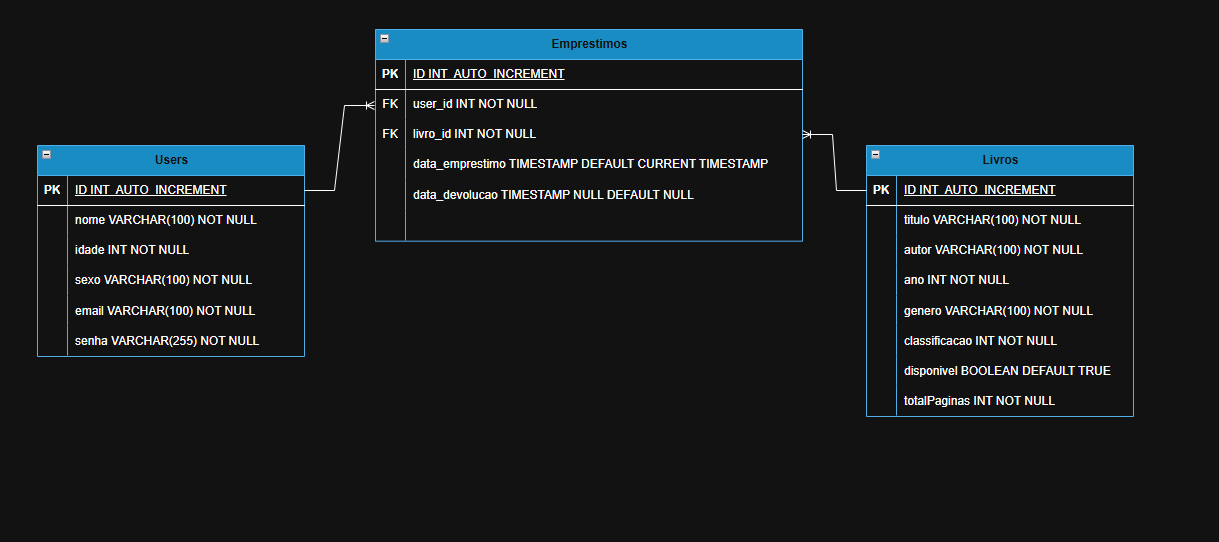
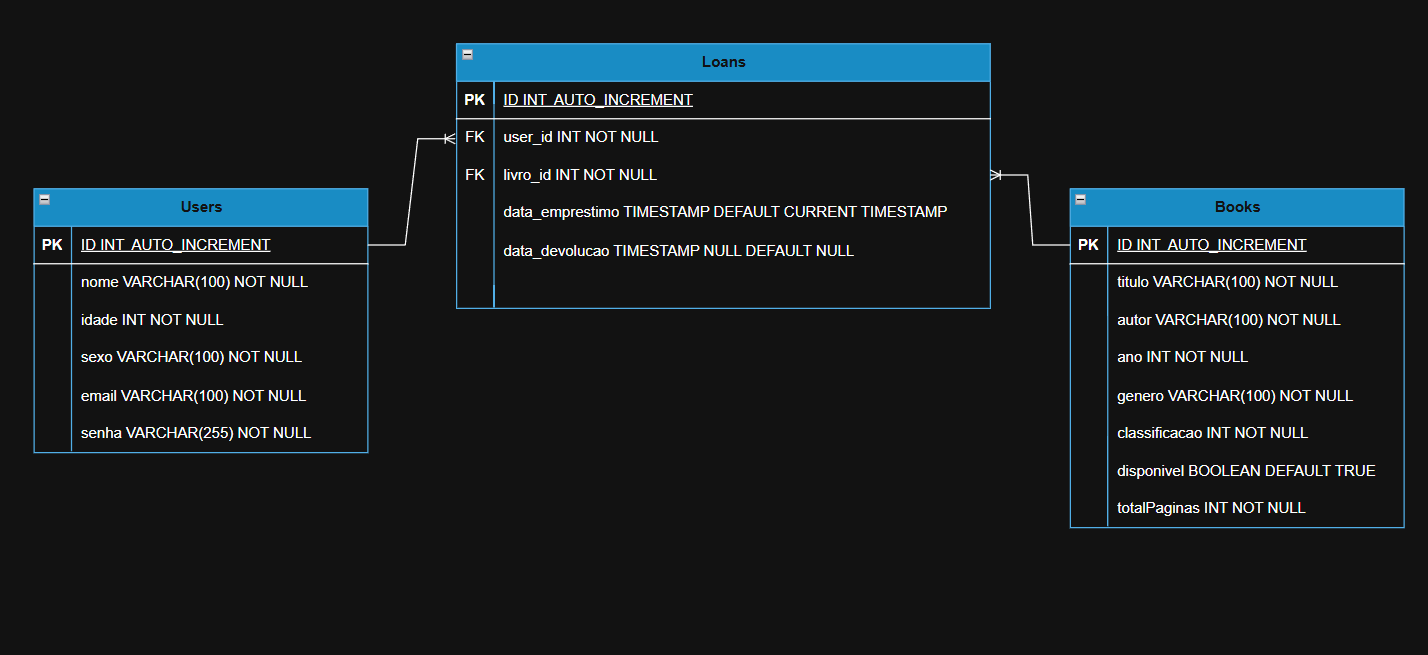
docs: update README with project architecture and user endpoints

Changed region(s): [[0.2806, 0.0295, 0.9975, 0.8266], [0.0, 0.2657, 0.2806, 0.7085], [0.6546, 0.2362, 0.6858, 0.2657]]

diff --git a/README.md b/README.md
@@ -1,1 +1,98 @@
-# library-system
+# 📚 Library System API
+
+Uma API RESTful para gerenciamento de biblioteca, desenvolvida em PHP puro, utilizando a arquitetura MVC (Model-View-Controller) e conceitos modernos de Orientação a Objetos.
+
+## 🚀 Status do Projeto: Módulo de Usuários Concluído
+
+O ecossistema base da aplicação e o CRUD completo de usuários foram implementados com sucesso e estão 100% funcionais.
+
+---
+
+## 🛠 Arquitetura e Decisões Técnicas
+
+Para fugir do PHP estruturado tradicional e simular o comportamento dos grandes frameworks de mercado (como Laravel e Symfony), o projeto foi estruturado com as seguintes camadas:
+
+- **Roteador Dinâmico (`Router.php`):** Um sistema de rotas centralizado que intercepta as requisições globais (`$_SERVER`), limpa as URLs com `parse_url` e gerencia as rotas através de chaves bidimensionais (`$routes[$method][$path]`).
+- **Closure Routes (`routes.php`):** Mapeamento moderno utilizando funções anônimas e a palavra-chave `use` para isolamento e injeção de dependência dos Controllers.
+- **Camada de Repositório (`UserRepository.php`):** Responsável por isolar totalmente as consultas SQL (PDO) da lógica de negócios da aplicação.
+- **Encapsulamento e Entidades (`User.php`):** Uso de Getters/Setters e tratamento seguro de dados (como criptografia de senha nativa e uso de `trim()`).
+- **Tratamento de Erros:** Implementação de blocos `try/catch` nos Controllers, capturando exceções do banco (como e-mails duplicados) ou payloads inválidos e devolvendo respostas padronizadas em JSON com status HTTP corretos (`400 Bad Request`, `404 Not Found`).
+
+---
+
+## 🛣 Endpoints Disponíveis (Módulo de Usuários)
+
+Todas as requisições e respostas trafegam em formato **JSON**.
+
+| Método   | Endpoint           | Descrição                               | Payload (JSON)                                |
+| :------- | :----------------- | :-------------------------------------- | :-------------------------------------------- |
+| **GET**  | `/usuarios`        | Lista todos os usuários cadastrados     | Nenhum                                        |
+| **POST** | `/usuarios/store`  | Cadastra um novo usuário no sistema     | `{"nome", "idade", "sexo", "email", "senha"}` |
+| **POST** | `/usuarios/show`   | Busca detalhes de um usuário específico | `{"id"}`                                      |
+| **POST** | `/usuarios/update` | Atualiza dados de um usuário existente  | `{"id", "nome", ...}`                         |
+| **POST** | `/usuarios/delete` | Remove um usuário do banco de dados     | `{"id"}`                                      |
+
+---
+
+## 🧪 Como Testar
+
+### 📋 Pré-requisitos
+
+Antes de começar, você vai precisar ter instalado em sua máquina:
+
+- **Um servidor local instalado (ex: **XAMPP**, **WAMP** ou **Laragon**)**
+- **PHP 8.2** ou superior
+- **Composer** (Gerenciador de dependências do PHP)
+- **MySQL 8.0** ou superior
+
+---
+
+### ⚙ Instalação e Configuração
+
+1. **Clone o repositório:**
+
+   Navegue até a pasta `htdocs` do seu servidor local e execute:
+
+   ```bash
+   git clone https://github.com/devls-io/library-system.git
+   ```
+
+2. **Instale as dependências do projeto**
+
+   `composer install`
+
+3. **Configure as variáveis de Ambiente:**
+
+   Crie um arquivo na raiz chamado `.env`
+   Adicione as credenciais do banco de dados:
+
+   ```env
+   DB_HOST=localhost
+   DB_PORT=3306
+   DB_NAME=library_system
+   DB_USER=seu_usuario
+   DB_PASS=sua_senha
+   ```
+
+4. **Configure o Banco de Dados**
+
+   Crie um banco de dados com o nome `library_system` e execute o seguinte script SQL para criar a tabela de usuários:
+
+   ```sql
+    CREATE TABLE users (
+      id INT AUTO_INCREMENT PRIMARY KEY,
+      nome VARCHAR(255) NOT NULL,
+      idade INT NOT NULL,
+      sexo VARCHAR(50) NOT NULL,
+      email VARCHAR(255) NOT NULL UNIQUE,
+      senha VARCHAR(255) NOT NULL
+   );
+   ```
+
+5. **Testando o projeto**
+
+   Inicie o servidor embutido do PHP na raiz do projeto:
+
+   ```bash
+   php -S localhost:8000
+   ```
